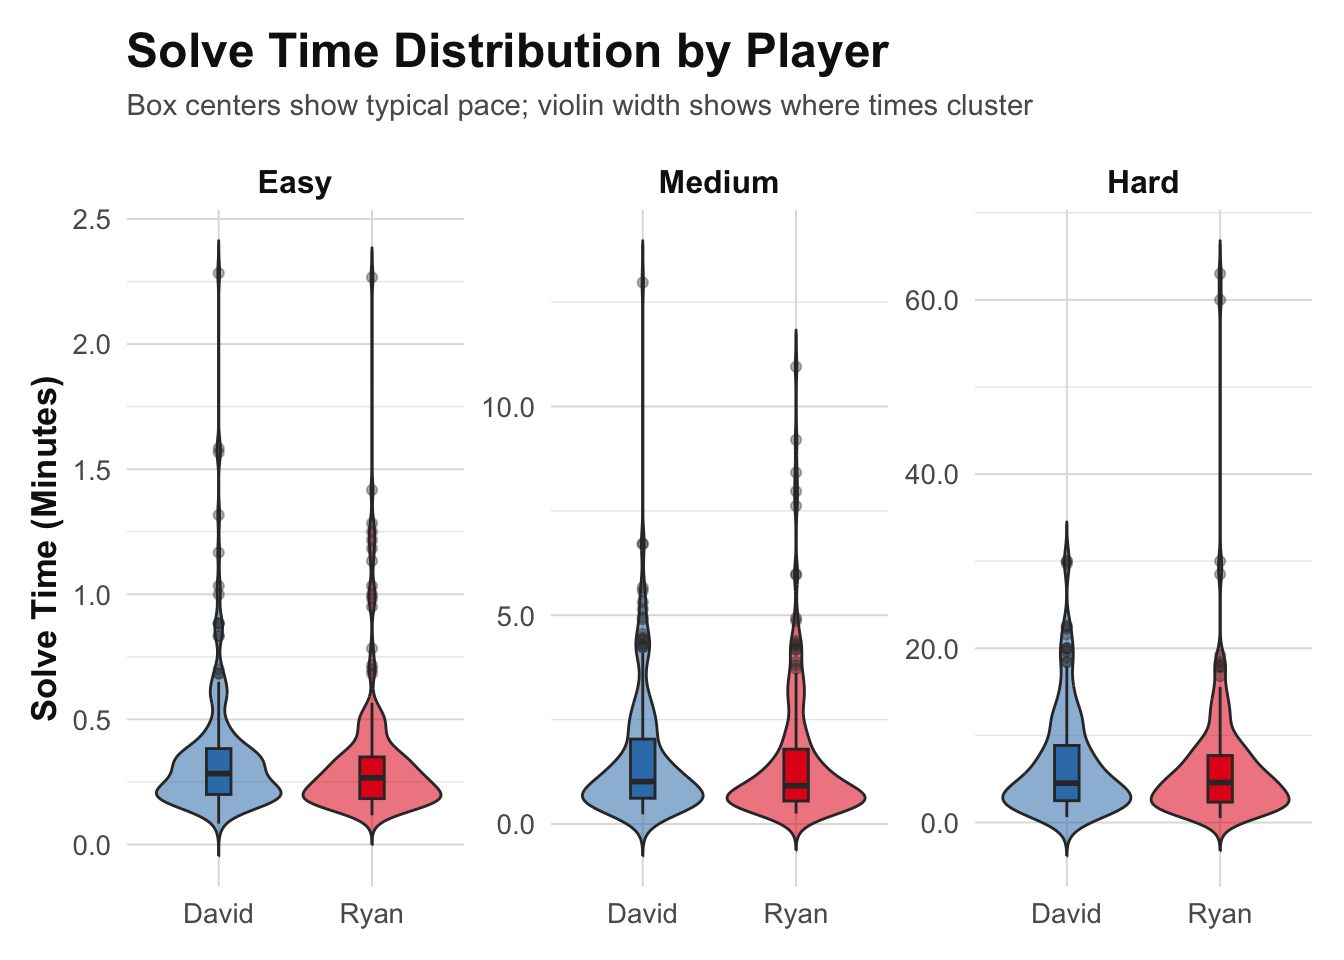
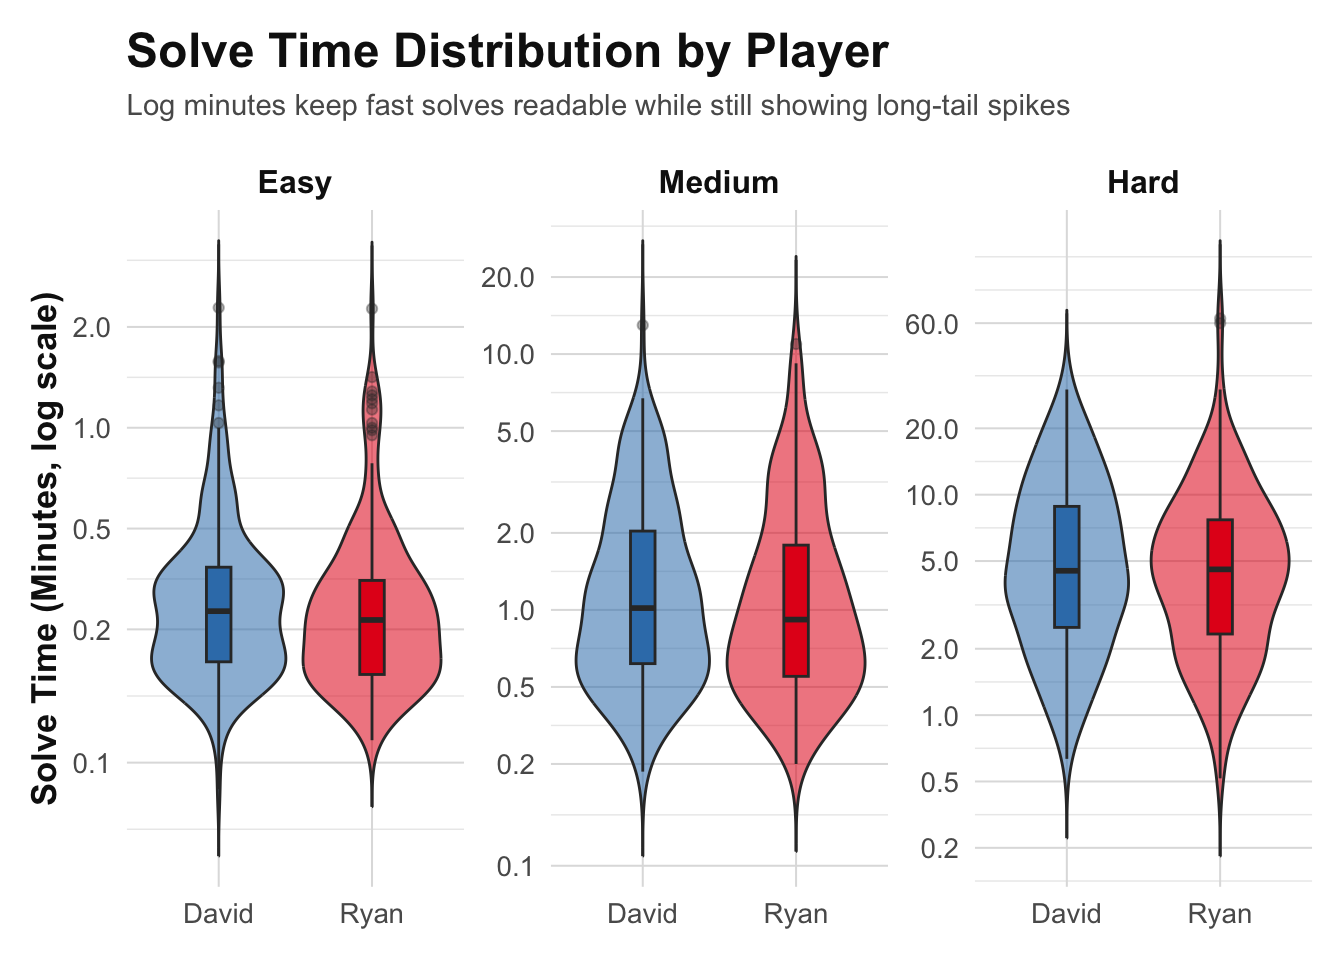
Improve mobile plot readability

diff --git a/nyt-games.css b/nyt-games.css
@@ -145,9 +145,45 @@ main.content li::marker {
 }
 
 .cell-output-display img {
+  display: block;
+  max-width: 100%;
+  height: auto;
   border: 1px solid var(--nyt-border);
   background: #fff;
   box-shadow: 0 2px 0 rgba(18, 18, 18, 0.08);
+}
+
+.panel-tabset {
+  margin-block: 1rem 1.7rem;
+}
+
+.nav-tabs {
+  gap: 0.35rem;
+  border-bottom: 2px solid var(--nyt-black);
+}
+
+.nav-tabs .nav-link {
+  margin-bottom: 0.45rem;
+  border: 1px solid var(--nyt-border);
+  border-radius: 999px;
+  color: var(--nyt-black);
+  font-size: 0.88rem;
+  font-weight: 800;
+  letter-spacing: 0;
+  padding: 0.38rem 0.78rem;
+  text-decoration: none;
+}
+
+.nav-tabs .nav-link:hover {
+  border-color: var(--nyt-black);
+  color: var(--pips-purple);
+}
+
+.nav-tabs .nav-link.active,
+.nav-tabs .nav-item.show .nav-link {
+  border-color: var(--nyt-black);
+  background: var(--pips-accent);
+  color: var(--nyt-black);
 }
 
 #TOC,
@@ -246,4 +282,17 @@ hr {
   h3 {
     margin-top: 1.8rem;
   }
+
+  .nav-tabs {
+    flex-wrap: nowrap;
+    overflow-x: auto;
+    padding-bottom: 0.2rem;
+  }
+
+  .nav-tabs .nav-link {
+    white-space: nowrap;
+    font-size: 0.82rem;
+    padding: 0.34rem 0.68rem;
+  }
+
 }